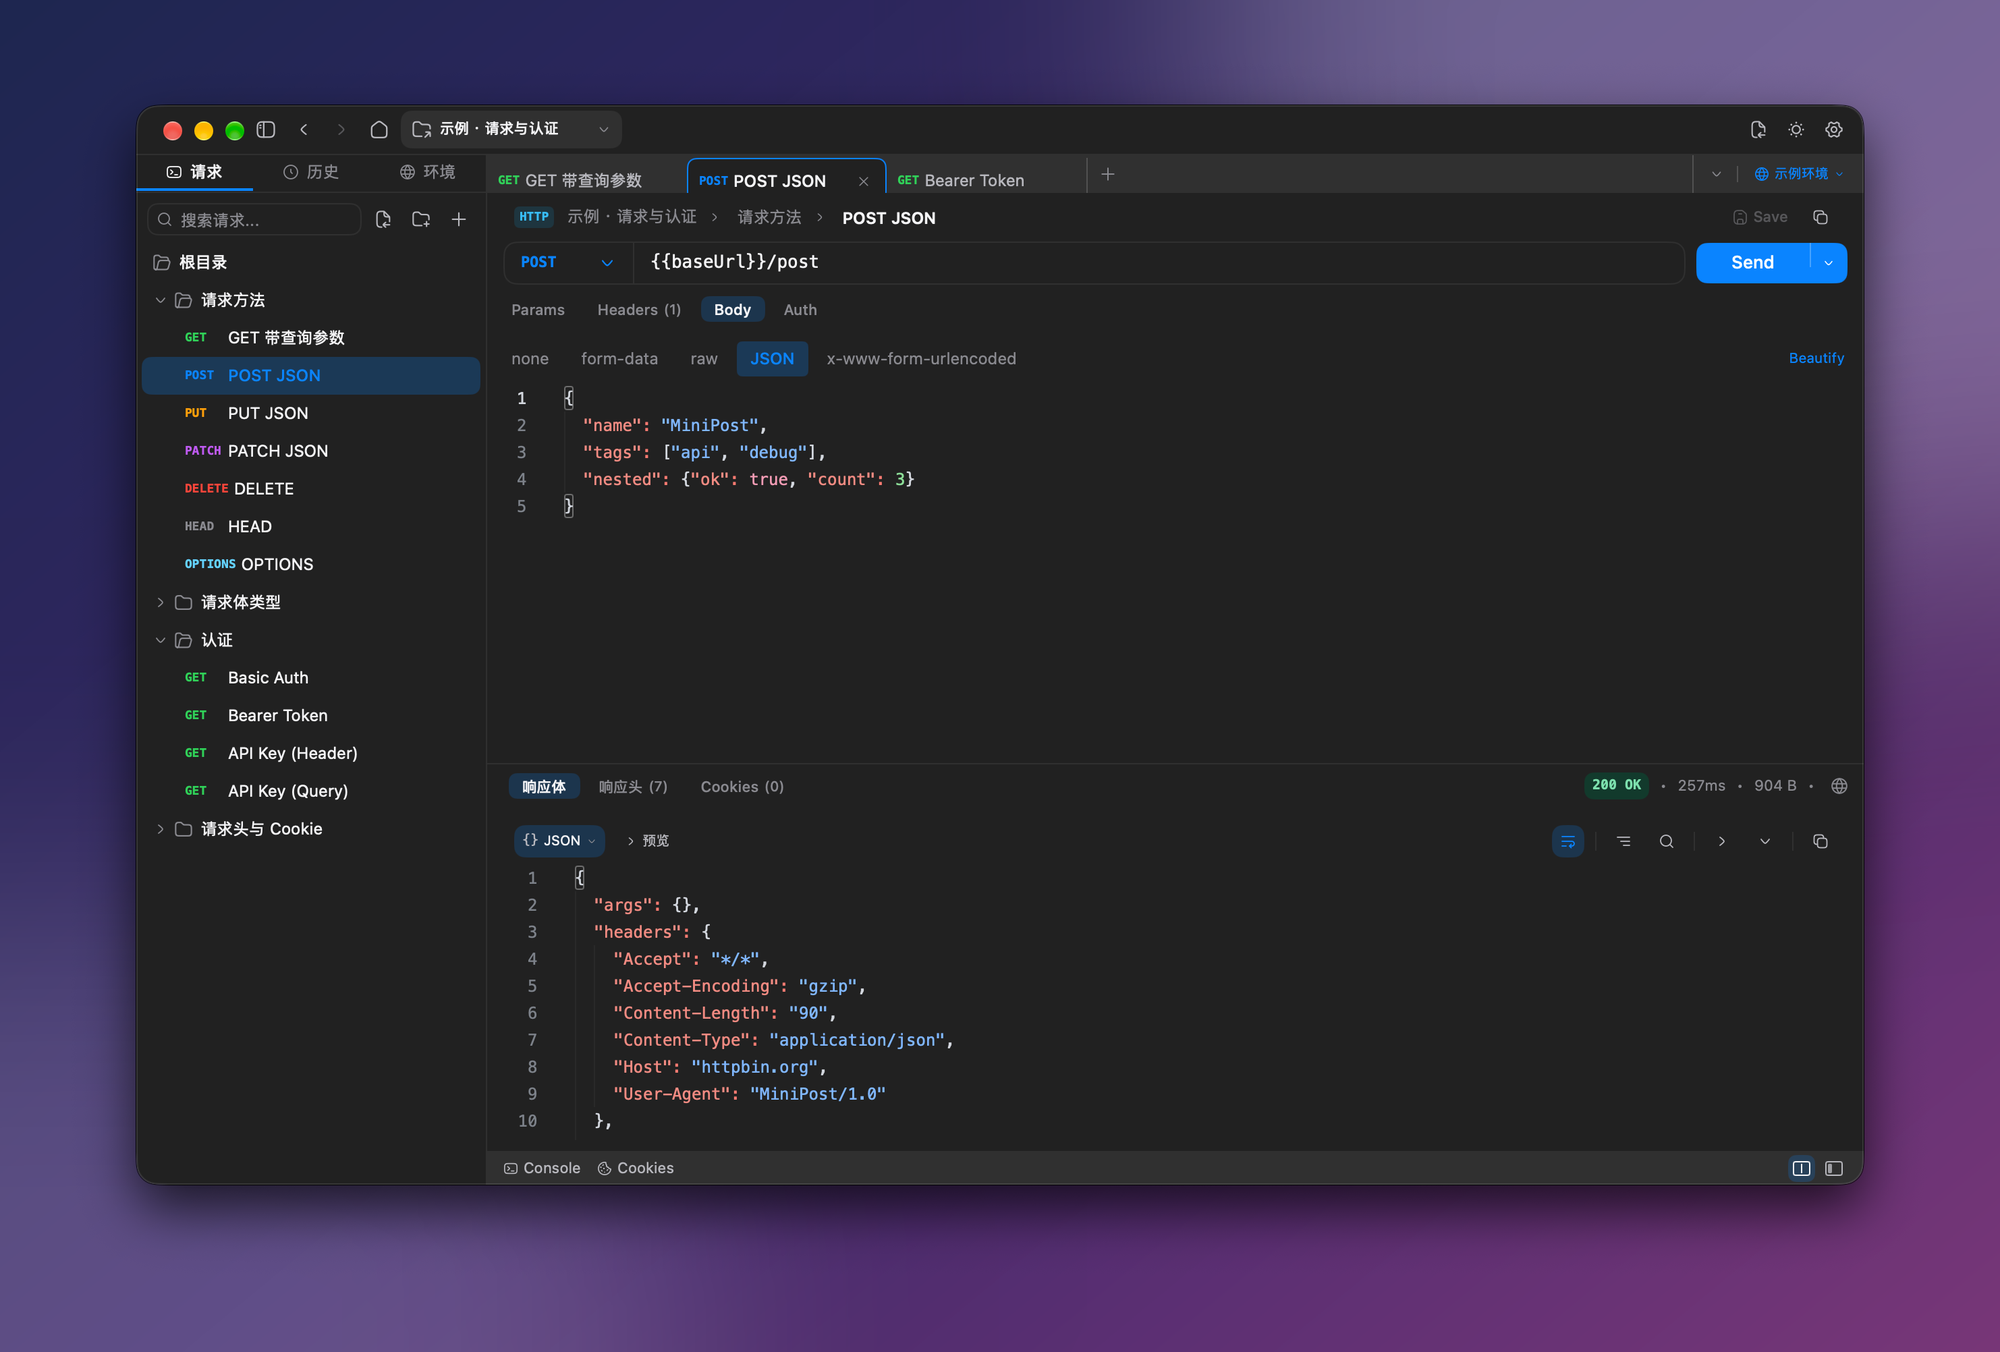
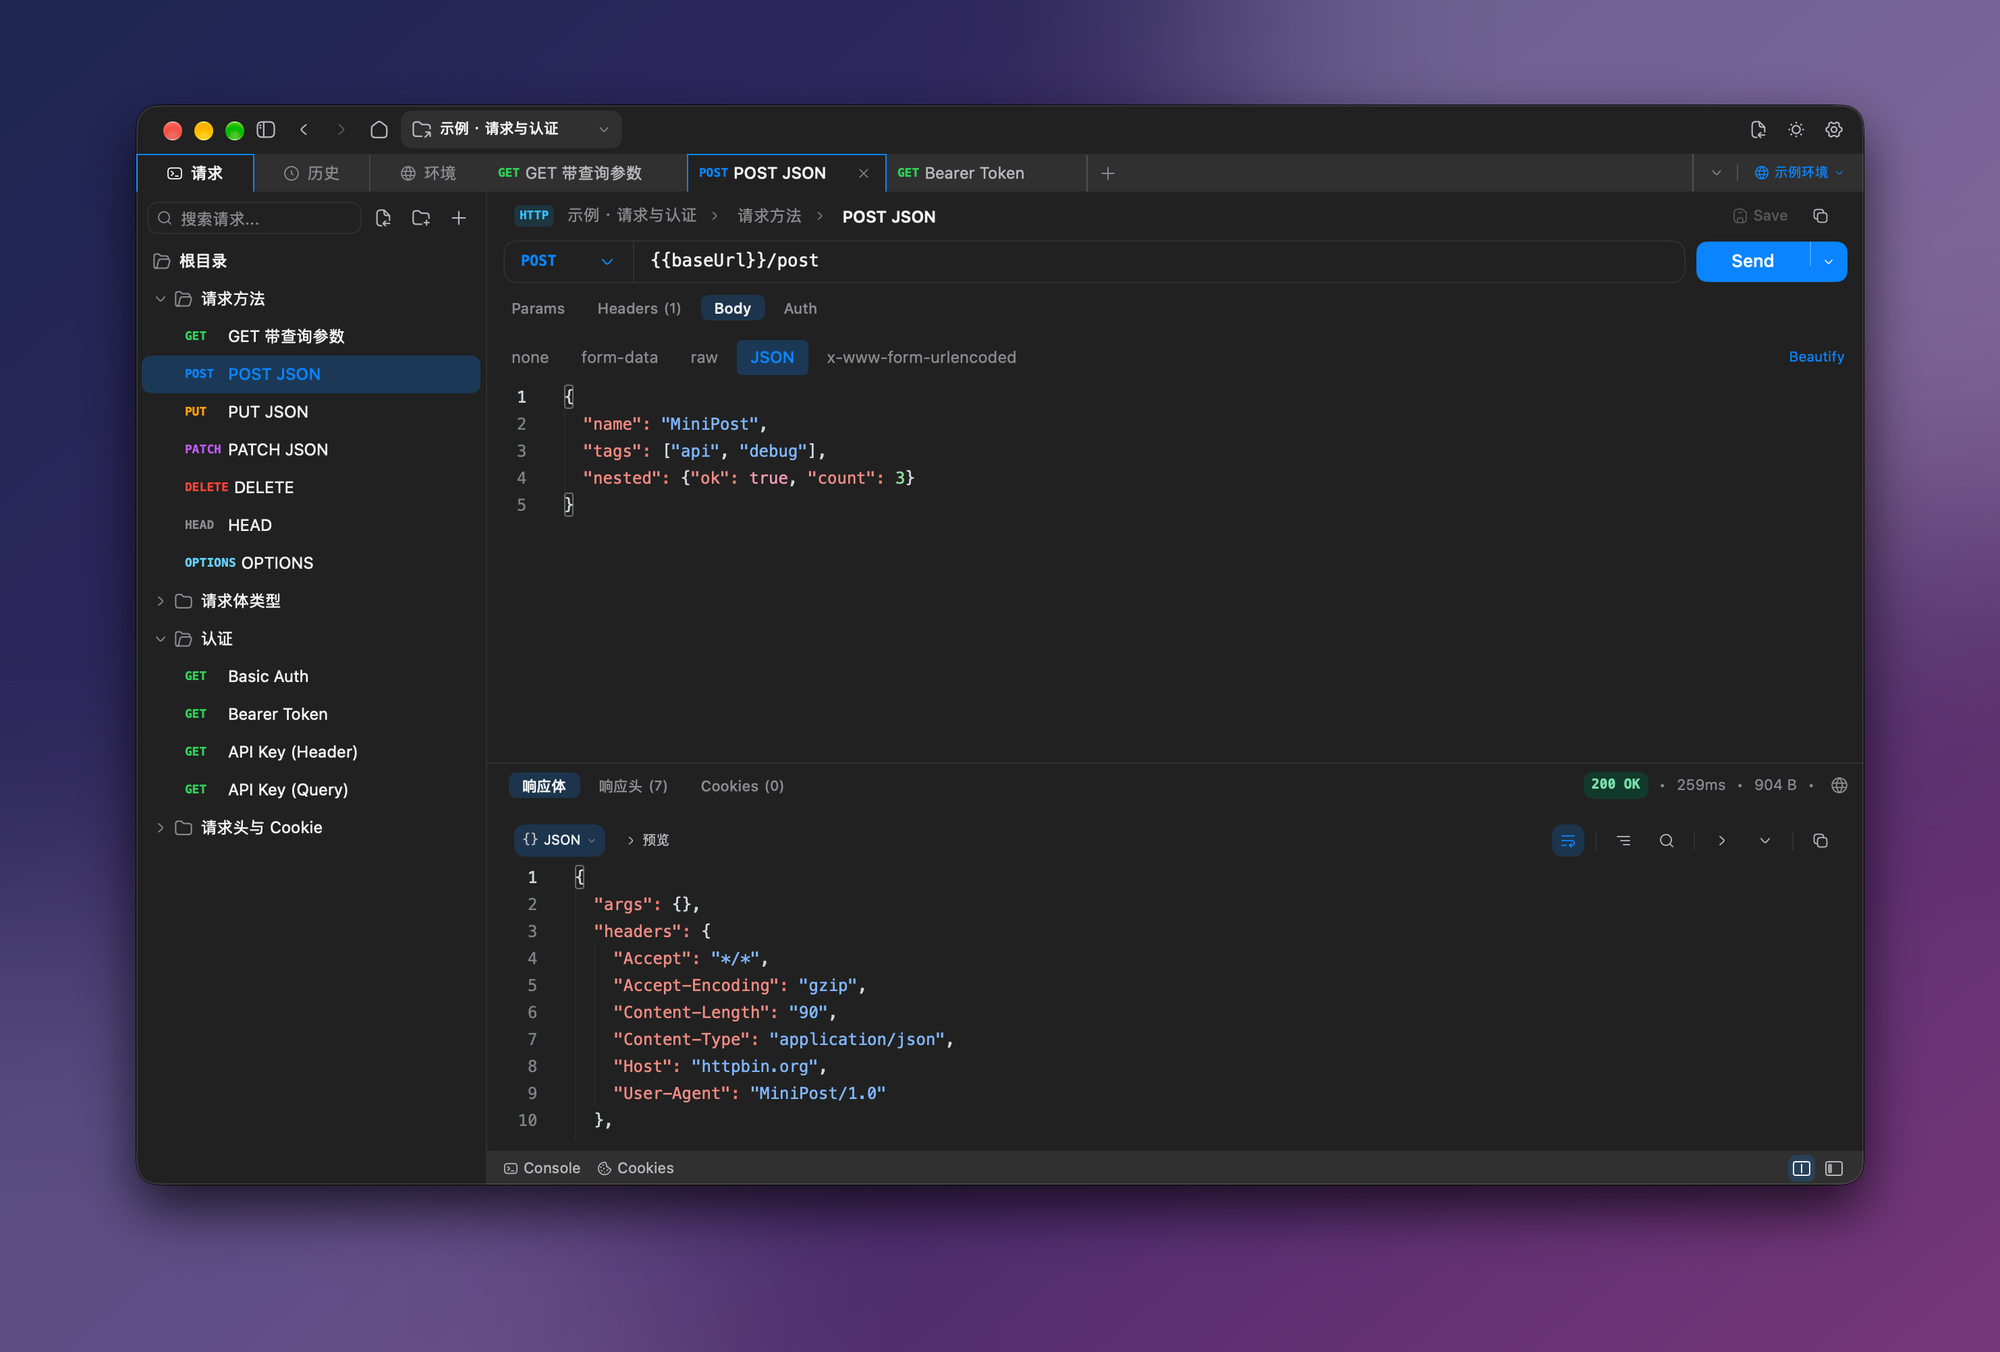
fix: 标签恢复方正样式并避免线条重叠，侧栏标签统一为同一风格，重拍 README 截图
- 请求标签与侧栏标签都去掉圆角，选中项只在左/上/右有强调色边框，下边与内容区融为一体
- 标签条顶线由各自标签条绘制，选中项的上边框直接盖住它，标题栏不再重复画底线
- 相邻标签只保留一条竖分隔线，第一个/最后一个选中项紧贴侧栏分隔线时不画贴边的那条边框
- 新增顶线唯一性与无加粗竖线的像素测试

diff --git a/internal/gui/tabbar.go b/internal/gui/tabbar.go
@@ -8,6 +8,7 @@ import (
 func (a *app) tabBar(c *ui.Context) {
 	p := a.p
 	ui.Row(c).FillWidth().Height(sizeTabStrip).Shrink(0).Background(p.tabStrip).AlignItems(ui.Stretch).Children(func() {
+		stripTopLine(c, p.border)
 		if len(a.tabs) == 0 {
 			// 无标签时“+”独占一格，右侧带分隔线
 			ui.Row(c).Width(35).PaddingX(6).AlignItems(ui.Center).Children(func() {
@@ -21,7 +22,7 @@ func (a *app) tabBar(c *ui.Context) {
 					a.tabItem(c, i, t)
 				}
 				if len(a.tabs) > 0 {
-					ui.Row(c).Height(sizeTabStrip).MarginStart(4).AlignItems(ui.Center).Children(func() {
+					ui.Row(c).Height(sizeTabStrip - 1).MarginStart(4).AlignItems(ui.Center).Children(func() {
 						a.tabAction(c, "add", a.t("新建请求", "New request"), 13)
 					})
 				}
@@ -51,83 +52,91 @@ func (a *app) tabAction(c *ui.Context, name, tip string, size float32) bool {
 	})
 }
 
-// tabBleed 是选中标签向下多出并被裁掉的高度。
-const tabBleed = 8
-
-// tabHeight 是标签本身的高度（标签栏顶部留 2px 空隙）。
-const tabHeight = sizeTabStrip - 2
+// stripTopLine 画标签条顶部的 1px 横线（铺满整条，作为最底层）。
+// 选中的标签从这一行开始，用自己的强调色上边框把线盖住，所以同一个位置永远只有一条线；
+// 其余标签从线下面一行开始。标题栏本身不再画底线，避免与这条线叠成两条。
+func stripTopLine(c *ui.Context, col ui.Color) {
+	ui.Box(c).Absolute().Top(0).Left(0).Right(0).Height(1).Background(col).ZIndex(-1)
+}
 
 // tabItem 绘制一个请求标签：方法、标题、未保存圆点与悬停时出现的关闭按钮。
-// 选中的标签只在左、上、右画一圈强调色边框，下边不画线，背景和下方内容区一致，看起来与内容区连成一体；
-// 为此标签比外层多出一截并被裁掉，底部的圆角和边线就不会露出来。鼠标中键点击标签可关闭它。
+// 标签是方正的：选中的标签只在左、上、右画强调色边框，下边不画线，背景和下方内容区一致，看起来与内容区连成一体。
+// 相邻标签之间只有一条竖分隔线；选中标签自带左右边框，它两侧不再画分隔线；
+// 第一个标签紧贴侧栏的分隔线时不再画左边框，避免两条竖线叠在一起。鼠标中键点击标签可关闭它。
 func (a *app) tabItem(c *ui.Context, i int, t *tab) {
 	p := a.p
 	active := i == a.active && !a.showHome
-	ui.Column(c.Key("tabw:" + t.draft.ID)).Height(tabHeight).Shrink(0).Clip().Children(func() {
-		cell := ui.Row(c.Key("tab:" + t.draft.ID)).Height(tabHeight + tabBleed).MinWidth(148).MaxWidth(230).Shrink(0).
-			ContextMenu(func(m *ui.Menu) { a.tabMenu(m, i) }).
-			HandleInput(func(ev ui.InputEvent) bool {
-				// 中键按下时接管这次点按，抬起时关闭（和浏览器标签页的习惯一致）。
-				switch {
-				case ev.Kind == ui.InputPointerDown && ev.Button == 2:
-					return true
-				case ev.Kind == ui.InputPointerUp && ev.Button == 2 && !ev.Canceled:
-					a.later(func() { a.closeTab(a.tabIndex(t)) })
-					return true
-				}
-				return false
-			})
-		hover := cell.Hovered()
-		switch {
-		case active:
-			cell = cell.Background(p.surface).Radius(7).BorderWidth(1, 1, 0, 1).BorderColor(p.tabActiveBorder)
-		case hover:
-			cell = cell.Background(p.hover).Radius(5)
+	h := float32(sizeTabStrip - 1) // 未选中的标签在顶线下面
+	if active {
+		h = sizeTabStrip // 选中的标签从顶线所在行开始，用自己的上边框盖住它
+	}
+	cell := ui.Row(c.Key("tab:" + t.draft.ID)).Height(h).MinWidth(148).MaxWidth(230).Shrink(0).
+		ContextMenu(func(m *ui.Menu) { a.tabMenu(m, i) }).
+		HandleInput(func(ev ui.InputEvent) bool {
+			// 中键按下时接管这次点按，抬起时关闭（和浏览器标签页的习惯一致）。
+			switch {
+			case ev.Kind == ui.InputPointerDown && ev.Button == 2:
+				return true
+			case ev.Kind == ui.InputPointerUp && ev.Button == 2 && !ev.Canceled:
+				a.later(func() { a.closeTab(a.tabIndex(t)) })
+				return true
+			}
+			return false
+		})
+	hover := cell.Hovered()
+	switch {
+	case active:
+		left := float32(1)
+		if i == 0 && !a.set.SidebarCollapsed {
+			left = 0 // 左边就是侧栏的分隔线
 		}
-		cell.Children(func() {
-			ui.Column(c).Grow(1).Basis(0).Height(tabHeight).Children(func() {
-				ui.Row(c).Grow(1).Basis(0).FillWidth().PaddingX(8).Gap(4).AlignItems(ui.Center).Children(func() {
-					if t.env != nil {
-						icon(c, "globe", 11, p.accent).Shrink(0)
-					} else {
-						txtMono(c, t.draft.Method, 9, p.method(t.draft.Method), 700).Shrink(0)
-					}
-					col, w := p.fg2, 0
-					if active {
-						col, w = p.fg, 500
-					}
-					txtE(c, t.title(), fsV2xs, col, w).Grow(1).Basis(0)
-					if t.dirty {
-						ui.Box(c).Size(6, 6).Radius(3).Background(p.accent).Shrink(0)
-					}
-					closeCol := p.muted
-					cb := ui.ButtonBase(c.Key("tc:"+t.draft.ID)).Size(16, 16).Radius(4).Shrink(0).AlignItems(ui.Center).Justify(ui.Center).
-						Tooltip(a.t("关闭 (⌘W)", "Close (⌘W)")).Label(a.t("关闭 (⌘W)", "Close (⌘W)"))
-					if cb.Hovered() {
-						cb = cb.Background(p.hover)
-						closeCol = p.fg
-					}
-					cb.Children(func() {
-						if hover || active {
-							icon(c, "clear", 10, closeCol)
-						}
-					})
-					if cb.Clicked() {
-						a.later(func() { a.closeTab(i) })
+		cell = cell.Background(p.surface).BorderWidth(1, 1, 0, left).BorderColor(p.tabActiveBorder)
+	case hover:
+		cell = cell.Background(p.hover)
+	}
+	cell.Children(func() {
+		ui.Column(c).Grow(1).Basis(0).FillHeight().Children(func() {
+			ui.Row(c).Grow(1).Basis(0).FillWidth().PaddingX(8).Gap(4).AlignItems(ui.Center).Children(func() {
+				if t.env != nil {
+					icon(c, "globe", 11, p.accent).Shrink(0)
+				} else {
+					txtMono(c, t.draft.Method, 9, p.method(t.draft.Method), 700).Shrink(0)
+				}
+				col, w := p.fg2, 0
+				if active {
+					col, w = p.fg, 500
+				}
+				txtE(c, t.title(), fsV2xs, col, w).Grow(1).Basis(0)
+				if t.dirty {
+					ui.Box(c).Size(6, 6).Radius(3).Background(p.accent).Shrink(0)
+				}
+				closeCol := p.muted
+				cb := ui.ButtonBase(c.Key("tc:"+t.draft.ID)).Size(16, 16).Radius(4).Shrink(0).AlignItems(ui.Center).Justify(ui.Center).
+					Tooltip(a.t("关闭 (⌘W)", "Close (⌘W)")).Label(a.t("关闭 (⌘W)", "Close (⌘W)"))
+				if cb.Hovered() {
+					cb = cb.Background(p.hover)
+					closeCol = p.fg
+				}
+				cb.Children(func() {
+					if hover || active {
+						icon(c, "clear", 10, closeCol)
 					}
 				})
+				if cb.Clicked() {
+					a.later(func() { a.closeTab(i) })
+				}
 			})
 		})
-		if cell.Clicked() && !active {
-			a.later(func() {
-				a.showHome = false
-				a.activate(i)
-			})
-		}
 	})
+	if cell.Clicked() && !active {
+		a.later(func() {
+			a.showHome = false
+			a.activate(i)
+		})
+	}
 	// 标签之间的竖分隔线：选中标签自带边框，它两侧不再画。
 	if !active && !(i+1 == a.active && !a.showHome) {
-		ui.Box(c.Key("tabdiv:" + t.draft.ID)).Width(1).Height(tabHeight).Shrink(0).Background(p.tabDivider)
+		ui.Box(c.Key("tabdiv:" + t.draft.ID)).Width(1).Height(sizeTabStrip - 1).Shrink(0).Background(p.tabDivider)
 	}
 }
 

diff --git a/internal/gui/tabbar_test.go b/internal/gui/tabbar_test.go
@@ -1,7 +1,10 @@
 package gui
 
 import (
+	"image"
 	"testing"
+
+	"github.com/egoist/mygo/ui"
 )
 
 // 鼠标中键点击标签关闭该标签（点的是哪个标签就关哪个，不一定是当前标签）。
@@ -45,9 +48,9 @@ func TestActiveTabMergesWithContent(t *testing.T) {
 	tt.Frame()
 	snapshot(t, tt, "tabs")
 	img := tt.Image()
-	stripBottom := sizeToolbar + sizeTabStrip - 1 // 标签栏最后一行像素
-	x := int(a.set.SidebarWidth) + 130            // 选中标签内部、文字右侧（标签最小宽 148）
-	below := img.RGBAAt(x, stripBottom+3)         // 内容区
+	stripBottom := sizeToolbar - 1 + sizeTabStrip - 1 // 标签栏最后一行像素（标题栏不再画底线，标签栏从 sizeToolbar-1 开始）
+	x := int(a.set.SidebarWidth) + 130                // 选中标签内部、文字右侧（标签最小宽 148）
+	below := img.RGBAAt(x, stripBottom+3)             // 内容区
 	at := img.RGBAAt(x, stripBottom)
 	if at != below {
 		t.Fatalf("选中标签底部应与内容区同色（无线）: 标签栏底 %v，内容区 %v", at, below)
@@ -57,5 +60,87 @@ func TestActiveTabMergesWithContent(t *testing.T) {
 	above := img.RGBAAt(img.Bounds().Max.X-300, stripBottom-4)
 	if far != above {
 		t.Fatalf("标签栏底部不应有分隔线: %v vs %v", far, above)
+	}
+}
+
+// px 取画面上一个像素的 RGB。
+func px(img *image.RGBA, x, y int) [3]uint8 {
+	c := img.RGBAAt(x, y)
+	return [3]uint8{c.R, c.G, c.B}
+}
+
+func rgb(c ui.Color) [3]uint8 { return [3]uint8{c.R, c.G, c.B} }
+
+// 标签条顶部只有一条线：选中的标签用强调色上边框盖住它，其余位置是普通边框色；
+// 线的下一行不能再有第二条线，上一行（标题栏）也不能有线——不会出现两条线叠在一起。
+// 请求标签条和侧栏标签条都要满足。
+func TestTabStripHasSingleTopLine(t *testing.T) {
+	a, tt, _ := zhApp(t)
+	a.openRequest(a.coll.Requests[0].ID)
+	a.openRequest(a.coll.Requests[1].ID)
+	a.activate(1)
+	tt.Frame()
+	tt.Frame()
+	img := tt.Image()
+	p := a.p
+	y := sizeToolbar - 1 // 标签条的第一行：顶线所在
+	sw := int(a.set.SidebarWidth)
+	cases := []struct {
+		name string
+		x    int
+		want [3]uint8
+	}{
+		{"请求标签条空白处", img.Bounds().Max.X - 300, rgb(p.border)},
+		{"未选中的请求标签", sw + 60, rgb(p.border)},
+		{"选中的请求标签", sw + 148 + 70, rgb(p.tabActiveBorder)},
+		{"侧栏选中的标签", 60, rgb(p.tabActiveBorder)},
+		{"侧栏未选中的标签", 150, rgb(p.border)},
+	}
+	for _, c := range cases {
+		if got := px(img, c.x, y); got != c.want {
+			t.Errorf("%s：顶线颜色 %v，应为 %v", c.name, got, c.want)
+		}
+		if above, line := px(img, c.x, y-1), px(img, c.x, y); above == line {
+			t.Errorf("%s：线的上一行（标题栏）也是线色 %v，出现了两条线", c.name, above)
+		}
+		if below := px(img, c.x, y+1); below == px(img, c.x, y) {
+			t.Errorf("%s：线的下一行仍是线色 %v，线变粗了", c.name, below)
+		}
+	}
+}
+
+// 相邻标签之间不会叠出加粗的竖线：沿标签条中部横扫，任何一条竖线都只有 1px 宽。
+func TestTabStripNoThickVerticalLines(t *testing.T) {
+	a, tt, _ := zhApp(t)
+	a.openRequest(a.coll.Requests[0].ID)
+	a.openRequest(a.coll.Requests[1].ID)
+	a.activate(0)
+	a.openRequest(a.coll.Requests[1].ID) // 三种状态：选中在中间、前后各有未选中
+	tt.Frame()
+	tt.Frame()
+	img := tt.Image()
+	y := sizeToolbar - 1 + sizeTabStrip - 4 // 标签条靠下的一行，避开文字
+	bg := px(img, img.Bounds().Max.X-300, y)
+	sw := int(a.set.SidebarWidth)
+	// 选中标签两侧：左右各一条强调色线，且紧邻的像素不是第二条线。
+	activeLeft, activeRight := -1, -1
+	for x := sw + 2; x < img.Bounds().Max.X; x++ {
+		if px(img, x, y) == rgb(a.p.tabActiveBorder) {
+			if activeLeft < 0 {
+				activeLeft = x
+			}
+			activeRight = x
+		}
+	}
+	if activeLeft < 0 || activeRight-activeLeft < 100 {
+		t.Fatalf("没找到选中标签的左右边框: %d %d", activeLeft, activeRight)
+	}
+	for _, x := range []int{activeLeft, activeRight} {
+		for _, dx := range []int{-1, 1} {
+			n := px(img, x+dx, y)
+			if n != bg && n != rgb(a.p.surface) {
+				t.Errorf("选中标签边框 x=%d 旁边的像素 %v 不是背景色，叠出了第二条线", x, n)
+			}
+		}
 	}
 }

diff --git a/internal/gui/sidebar.go b/internal/gui/sidebar.go
@@ -28,7 +28,9 @@ func (a *app) sidebar(c *ui.Context) {
 	})
 }
 
-// sideTabs 是 28px 高的标签条：三等分，当前项有 2px 强调色下划线。
+// sideTabs 是 28px 高的标签条：三等分，样式与请求标签一致——方正、选中项左/上/右强调色边框、
+// 下边不画线并与下方列表连成一体；未选中项底色稍深。顶线由标签条自己画（被选中项的边框盖住），
+// 选中项最右侧紧贴侧栏分隔线时不画右边框，避免两条竖线叠在一起。
 func (a *app) sideTabs(c *ui.Context) {
 	p := a.p
 	items := []struct{ icon, zh, en string }{
@@ -36,19 +38,31 @@ func (a *app) sideTabs(c *ui.Context) {
 		{"clock", "历史", "History"},
 		{"globe", "环境", "Environments"},
 	}
-	ui.Row(c).FillWidth().Height(sizeTabStrip - 1).Shrink(0).Children(func() {
+	ui.Row(c).FillWidth().Height(sizeTabStrip).Shrink(0).AlignItems(ui.End).Children(func() {
+		stripTopLine(c, p.border)
 		for i, it := range items {
 			active := a.side.tab == i
 			col, weight := p.muted, 0
 			if active {
 				col, weight = p.fg, 500
 			}
-			line := ui.Color{}
+			h := float32(sizeTabStrip - 1)
 			if active {
-				line = p.accent
+				h = sizeTabStrip
 			}
-			b := ui.ButtonBase(c.Key("sidetab"+it.en)).Grow(1).Basis(0).Height(26).Gap(6).AlignItems(ui.Center).Justify(ui.Center).
-				BorderWidth(0, 0, 2, 0).BorderColor(line)
+			b := ui.ButtonBase(c.Key("sidetab" + it.en)).Grow(1).Basis(0).Height(h).Gap(6).AlignItems(ui.Center).Justify(ui.Center)
+			switch {
+			case active:
+				right := float32(1)
+				if i == len(items)-1 {
+					right = 0
+				}
+				b = b.Background(p.sidebar).BorderWidth(1, right, 0, 1).BorderColor(p.tabActiveBorder)
+			case b.Hovered():
+				b = b.Background(p.hover)
+			default:
+				b = b.Background(p.sideHover)
+			}
 			b.Children(func() {
 				icon(c, it.icon, 12, col)
 				txt(c, a.t(it.zh, it.en), fsBase, col, weight)
@@ -56,9 +70,12 @@ func (a *app) sideTabs(c *ui.Context) {
 			if b.Clicked() {
 				a.side.tab = i
 			}
+			// 未选中项之间的竖分隔线；选中项自带边框，两侧不再画。
+			if i < len(items)-1 && !active && a.side.tab != i+1 {
+				ui.Box(c.Key("sidediv" + it.en)).Width(1).Height(sizeTabStrip - 1).Shrink(0).Background(p.tabDivider)
+			}
 		}
 	})
-	hline(c, p.border)
 }
 
 // searchRow 是请求标签顶部的搜索框与三个操作按钮（导入、新建文件夹、新建请求）。

diff --git a/internal/gui/toolbar.go b/internal/gui/toolbar.go
@@ -51,7 +51,9 @@ func (a *app) titleBar(c *ui.Context) {
 			}
 		})
 	})
-	hline(c, p.border)
+	if a.showHome || a.projectID == "" {
+		hline(c, p.border) // 其余页面的这条线由标签条和侧栏标签条各自画在顶部
+	}
 }
 
 // workspaceHeader 是标题栏中部：后退、前进、主页按钮与项目选择器。
